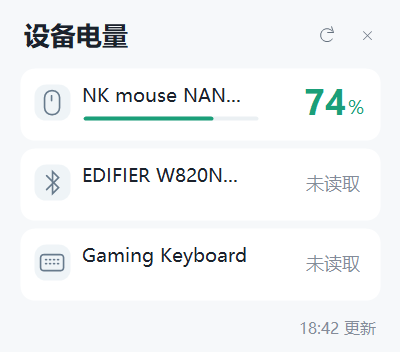
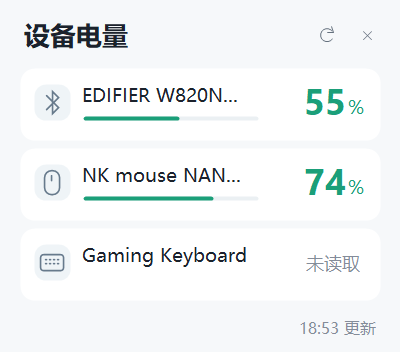
Add direct BLE battery service and Edifier RFCOMM queries

diff --git a/src/BluetoothProvider.cs b/src/BluetoothProvider.cs
@@ -1,0 +1,194 @@
+using System;
+using System.Collections.Generic;
+using System.Diagnostics;
+using System.Linq;
+using System.Threading;
+using Windows.Devices.Bluetooth;
+using Windows.Devices.Bluetooth.GenericAttributeProfile;
+using Windows.Devices.Bluetooth.Rfcomm;
+using Windows.Devices.Enumeration;
+using Windows.Foundation;
+using Windows.Networking.Sockets;
+using Windows.Storage.Streams;
+
+namespace PeripheralBattery
+{
+    internal static class BluetoothOperation
+    {
+        internal static T Wait<T>(IAsyncOperation<T> operation, int timeout)
+        {
+            try
+            {
+                var watch = Stopwatch.StartNew();
+                while (operation.Status == AsyncStatus.Started)
+                {
+                    if (watch.ElapsedMilliseconds >= timeout) throw new TimeoutException("蓝牙查询超时");
+                    Thread.Sleep(15);
+                }
+                return operation.GetResults();
+            }
+            finally
+            {
+                if (operation.Status == AsyncStatus.Started) operation.Cancel();
+                else operation.Close();
+            }
+        }
+        internal static void Wait(IAsyncAction operation, int timeout)
+        {
+            try
+            {
+                var watch = Stopwatch.StartNew();
+                while (operation.Status == AsyncStatus.Started)
+                {
+                    if (watch.ElapsedMilliseconds >= timeout) throw new TimeoutException("蓝牙连接超时");
+                    Thread.Sleep(15);
+                }
+                operation.GetResults();
+            }
+            finally
+            {
+                if (operation.Status == AsyncStatus.Started) operation.Cancel();
+                else operation.Close();
+            }
+        }
+    }
+
+    internal sealed class BluetoothProvider : IBatteryProvider
+    {
+        public string Name { get { return "蓝牙直读"; } }
+        public List<BatteryDevice> Scan()
+        {
+            string classic = BluetoothDevice.GetDeviceSelectorFromConnectionStatus(BluetoothConnectionStatus.Connected);
+            string lowEnergy = BluetoothLEDevice.GetDeviceSelectorFromConnectionStatus(BluetoothConnectionStatus.Connected);
+            var properties = new[] { "System.Devices.Aep.IsConnected", "System.Devices.Aep.ContainerId", "System.Devices.Aep.DeviceAddress", "System.Devices.BatteryLife" };
+            var endpoints = BluetoothOperation.Wait(DeviceInformation.FindAllAsync("(" + classic + ") OR (" + lowEnergy + ")", properties, DeviceInformationKind.AssociationEndpoint), 3000);
+            var rows = new List<BatteryDevice>();
+            foreach (var endpoint in endpoints)
+            {
+                object connected;
+                if (!endpoint.Properties.TryGetValue("System.Devices.Aep.IsConnected", out connected) || !true.Equals(connected)) continue;
+                object addressValue, containerValue, batteryValue;
+                endpoint.Properties.TryGetValue("System.Devices.Aep.DeviceAddress", out addressValue);
+                endpoint.Properties.TryGetValue("System.Devices.Aep.ContainerId", out containerValue);
+                endpoint.Properties.TryGetValue("System.Devices.BatteryLife", out batteryValue);
+                string address = (addressValue as string ?? "").Replace(":", "").Replace("-", "").ToUpperInvariant();
+                Guid container;
+                string id = containerValue != null && Guid.TryParse(containerValue.ToString(), out container) && container != Guid.Empty ? container.ToString() : endpoint.Id;
+                var row = new BatteryDevice { Id = id, Address = address, Name = endpoint.Name, Connection = "蓝牙", Detail = "当前读取方式未获取到电量" };
+                int percent;
+                if (batteryValue != null && int.TryParse(batteryValue.ToString(), out percent) && percent >= 0 && percent <= 100)
+                {
+                    row.Percent = percent;
+                    row.Detail = "Windows 蓝牙实时属性";
+                }
+                if (endpoint.Id.StartsWith("BluetoothLE#", StringComparison.OrdinalIgnoreCase))
+                {
+                    try { ReadStandardBattery(row); }
+                    catch (Exception error) { if (!row.Percent.HasValue) row.Detail = "标准蓝牙读取失败 · " + error.Message; }
+                }
+                rows.Add(row);
+            }
+            EdifierBattery.Read(rows);
+            return rows;
+        }
+        private static void ReadStandardBattery(BatteryDevice row)
+        {
+            ulong address;
+            if (!ulong.TryParse(row.Address, System.Globalization.NumberStyles.HexNumber, System.Globalization.CultureInfo.InvariantCulture, out address)) return;
+            using (var device = BluetoothOperation.Wait(BluetoothLEDevice.FromBluetoothAddressAsync(address), 1500))
+            {
+                if (device == null || device.ConnectionStatus != BluetoothConnectionStatus.Connected) return;
+                var services = BluetoothOperation.Wait(device.GetGattServicesForUuidAsync(GattServiceUuids.Battery, BluetoothCacheMode.Uncached), 2000);
+                try
+                {
+                    if (services.Status != GattCommunicationStatus.Success) return;
+                    foreach (var service in services.Services)
+                    {
+                        var characteristics = BluetoothOperation.Wait(service.GetCharacteristicsForUuidAsync(GattCharacteristicUuids.BatteryLevel, BluetoothCacheMode.Uncached), 1500);
+                        if (characteristics.Status != GattCommunicationStatus.Success) continue;
+                        foreach (var characteristic in characteristics.Characteristics)
+                        {
+                            var value = BluetoothOperation.Wait(characteristic.ReadValueAsync(BluetoothCacheMode.Uncached), 1500);
+                            if (value.Status != GattCommunicationStatus.Success || value.Value == null || value.Value.Length != 1) continue;
+                            using (var reader = DataReader.FromBuffer(value.Value))
+                            {
+                                byte level = reader.ReadByte();
+                                if (level > 100) continue;
+                                row.Percent = level;
+                                row.Detail = "标准蓝牙电池服务直读";
+                                return;
+                            }
+                        }
+                    }
+                }
+                finally { foreach (var service in services.Services) service.Dispose(); }
+            }
+        }
+    }
+
+    internal static class EdifierBattery
+    {
+        private static readonly Guid Service = new Guid("EDF00000-EDFE-DFED-FEDF-EDFEDFEDFEDF");
+        internal static int? Parse(IList<byte> frame)
+        {
+            if (frame.Count != 6 || frame[0] != 0xBB || frame[1] != 2 || frame[2] != 0xD0 || frame[3] > 100) return null;
+            int checksum = (0x2019 + frame[0] + frame[1] + frame[2] + frame[3]) & 0xFFFF;
+            return frame[4] == checksum >> 8 && frame[5] == (checksum & 255) ? (int?)frame[3] : null;
+        }
+        internal static void Read(List<BatteryDevice> rows)
+        {
+            // The vendor service UUID identifies compatible devices. Match its
+            // physical Bluetooth address to a connected row before sending a query.
+            if (rows.Count == 0) return;
+            DeviceInformationCollection endpoints;
+            try { endpoints = BluetoothOperation.Wait(DeviceInformation.FindAllAsync(RfcommDeviceService.GetDeviceSelector(RfcommServiceId.FromUuid(Service))), 2000); }
+            catch (Exception) { return; }
+            foreach (var endpoint in endpoints)
+            {
+                BatteryDevice row = null;
+                try
+                {
+                    using (var service = BluetoothOperation.Wait(RfcommDeviceService.FromIdAsync(endpoint.Id), 1500))
+                    {
+                        if (service == null) continue;
+                        row = rows.FirstOrDefault(r => r.Address == service.Device.BluetoothAddress.ToString("X12"));
+                        if (row == null) continue;
+                        using (var socket = new StreamSocket())
+                        {
+                            BluetoothOperation.Wait(socket.ConnectAsync(service.ConnectionHostName, service.ConnectionServiceName), 5000);
+                            using (var writer = new DataWriter(socket.OutputStream))
+                            using (var reader = new DataReader(socket.InputStream))
+                            {
+                                reader.InputStreamOptions = InputStreamOptions.Partial;
+                                writer.WriteBytes(new byte[] { 0xAA, 1, 0xD0, 0x21, 0x94 });
+                                BluetoothOperation.Wait(writer.StoreAsync(), 1000);
+                                var buffer = new List<byte>();
+                                var watch = Stopwatch.StartNew();
+                                while (watch.ElapsedMilliseconds < 1600)
+                                {
+                                    uint count = BluetoothOperation.Wait(reader.LoadAsync(256), Math.Max(1, 1600 - (int)watch.ElapsedMilliseconds));
+                                    if (count == 0) break;
+                                    var bytes = new byte[count]; reader.ReadBytes(bytes); buffer.AddRange(bytes);
+                                    while (buffer.Count >= 2)
+                                    {
+                                        if (buffer[0] != 0xBB && buffer[0] != 0xCC) { buffer.RemoveAt(0); continue; }
+                                        int length = buffer[1] + 4;
+                                        if (buffer.Count < length) break;
+                                        int? battery = Parse(buffer.GetRange(0, length));
+                                        buffer.RemoveRange(0, length);
+                                        if (!battery.HasValue) continue;
+                                        row.Percent = battery.Value;
+                                        row.Detail = "漫步者蓝牙协议直读";
+                                        break;
+                                    }
+                                    if (row.Detail == "漫步者蓝牙协议直读") break;
+                                }
+                            }
+                        }
+                    }
+                }
+                catch (Exception error) { if (row != null && !row.Percent.HasValue) row.Detail = "耳机直读失败 · " + error.Message; }
+            }
+        }
+    }
+}

diff --git a/src/Devices.cs b/src/Devices.cs
@@ -9,7 +9,7 @@ namespace PeripheralBattery
 {
     internal sealed class BatteryDevice
     {
-        public string Id, Name, Connection, Detail, Level;
+        public string Id, Name, Connection, Detail, Level, Address;
         public int? Percent;
         public string Display { get { return Percent.HasValue ? Percent + "%" : (Level ?? "暂不支持读取"); } }
     }
@@ -269,7 +269,7 @@ namespace PeripheralBattery
     }
     internal static class Scanner
     {
-        internal static readonly IBatteryProvider[] Providers = { new WindowsProvider(), new HidProvider(), new XInputProvider() };
+        internal static readonly IBatteryProvider[] Providers = { new BluetoothProvider(), new WindowsProvider(), new HidProvider(), new XInputProvider() };
         internal static List<BatteryDevice> Scan(out List<string> errors)
         {
             errors = new List<string>(); var rows = new List<BatteryDevice>();

diff --git a/src/Program.cs b/src/Program.cs
@@ -35,7 +35,7 @@ namespace PeripheralBattery
             using (var key = Registry.CurrentUser.CreateSubKey(RunKey)) key.SetValue("PeripheralBattery", "\"" + ExePath + "\" --background");
             using (var key = Registry.CurrentUser.CreateSubKey(UninstallKey))
             {
-                key.SetValue("DisplayName", "外设工具箱 Peripheral Toolbox"); key.SetValue("DisplayVersion", "0.1.1");
+                key.SetValue("DisplayName", "外设工具箱 Peripheral Toolbox"); key.SetValue("DisplayVersion", "0.2.0");
                 key.SetValue("UninstallString", "\"" + ExePath + "\" --uninstall"); key.SetValue("DisplayIcon", ExePath);
                 key.SetValue("NoModify", 1); key.SetValue("NoRepair", 1);
             }

diff --git a/src/AssemblyInfo.cs b/src/AssemblyInfo.cs
@@ -2,5 +2,5 @@ using System.Reflection;
 [assembly: AssemblyTitle("外设工具箱")]
 [assembly: AssemblyDescription("Windows 外设电量托盘工具")]
 [assembly: AssemblyProduct("Peripheral Toolbox")]
-[assembly: AssemblyVersion("0.1.1.0")]
-[assembly: AssemblyFileVersion("0.1.1.0")]
+[assembly: AssemblyVersion("0.2.0.0")]
+[assembly: AssemblyFileVersion("0.2.0.0")]

diff --git a/README.md b/README.md
@@ -23,6 +23,9 @@ Windows“已安装的应用”中可卸载“外设工具箱 Peripheral Toolbox
 | 读取方式 | 适用范围 | 当前状态 |
 | --- | --- | --- |
 | Windows 设备电量 | 系统上报电量的蓝牙设备 | 已实现，按物理设备连接状态过滤 |
+| Windows 蓝牙实时属性 | 已连接的经典蓝牙和 BLE 设备 | 已实现，作为系统属性的另一来源 |
+| BLE 标准电池服务直读 | 提供 Battery Service / Battery Level 的已连接设备 | 已实现，直接读取设备，兼容设备待实测 |
+| 漫步者厂商蓝牙服务 | 提供 EDF00000 控制服务的已连接耳机 | W820NB 双金标版已实测成功 |
 | 标准 HID Battery Strength | 描述符中声明标准电池 Feature 报告的设备 | 已实现，待兼容设备实测 |
 | XInput 电池接口 | Xbox 及兼容手柄 | 已实现，保留低、中、满等档位 |
 | DualSense HID 报告 | 原装 DualSense、DualSense Edge，USB 或蓝牙 | 已实现，报文解析已测试，实机待验证 |
@@ -44,11 +47,15 @@ powershell -ExecutionPolicy Bypass -File .\build.ps1
 
 源码采用 C# 与 WinForms，无 NuGet 包依赖。`IBatteryProvider` 接入系统级数据来源，`IHidBatteryReader` 接入设备协议。设备枚举按容器合并多个 HID 接口。添加品牌适配时应匹配具体协议接口并校验回复，仅发送已确认的电量查询。
 
+增强蓝牙读取使用 Windows 自带的 WinRT 蓝牙、网络和流接口，构建脚本引用系统元数据和 .NET Framework 程序集。运行时持续保留系统属性读取作为回退。查询设有超时，单个设备失败后继续其他设备。漫步者查询匹配厂商服务 UUID 与物理地址，并校验返回帧。
+
 发布时在本地构建 EXE，并将它与 SHA256 校验值上传到 GitHub Release。
 
 ## 第一版验证记录
 
 2026-11-07，本机 ATK 接收器读取到 74%，飞智黑武士 5 Pro 接收器读取到 100%（20% 档位）。EXE 约 36 KB。初版界面的短时后台工作集约 42 MB，打开界面后约 59 MB。3 秒空闲采样的 CPU 时间增量为 0。测量结果随系统与设备变化。
+
+v0.2.0 在 Windows 电量属性为空时，通过漫步者厂商服务实际读取 W820NB 双金标版电量 56%。本次增强的 EXE 约 44 KB。其他漫步者型号和 BLE 标准服务仍需设备实测。
 
 已检查 USB/蓝牙 DualSense 报文解析、异常电池值、短报文、未知接收器匹配、本机设备扫描、安装和自启注册。DualSense 和其他品牌设备仍需实机验证。
 
@@ -60,5 +67,7 @@ powershell -ExecutionPolicy Bypass -File .\build.ps1
 - 标准 HID 值解析。[Microsoft 文档](https://learn.microsoft.com/en-us/windows-hardware/drivers/ddi/hidpi/nf-hidpi-hidp_getusagevalue)
 - ATK 报文说明与开源实现。[atk-tool-plus](https://github.com/papelblume/atk-tool-plus)
 - DualSense 报文说明与开源实现。[SDL](https://github.com/libsdl-org/SDL/blob/main/src/joystick/hidapi/SDL_hidapi_ps5.c)
+- 漫步者电量帧与服务 UUID 资料，C# 查询实现独立编写。[mEDIFIER](https://github.com/wh201906/mEDIFIER)
+- BLE 标准电池服务与直接读取接口。[Microsoft 文档](https://learn.microsoft.com/en-us/windows/uwp/devices-sensors/gatt-client)
 
 应用以 MIT 许可证发布。协议参考项目的授权说明见 THIRD_PARTY_NOTICES.md。

diff --git a/THIRD_PARTY_NOTICES.md b/THIRD_PARTY_NOTICES.md
@@ -1,5 +1,7 @@
 # Protocol references
 
+The Edifier Bluetooth service UUID, battery request, reply format and checksum were checked against wh201906/mEDIFIER (https://github.com/wh201906/mEDIFIER). The C# implementation is independently written. No mEDIFIER source or binary is included.
+
 The ATK packet implementation was independently written in C# using the protocol documented by papelblume/atk-tool-plus. DualSense packet offsets and battery interpretation were checked against SDL. Acknowledgments and their license notices follow.
 
 ## atk-tool-plus
